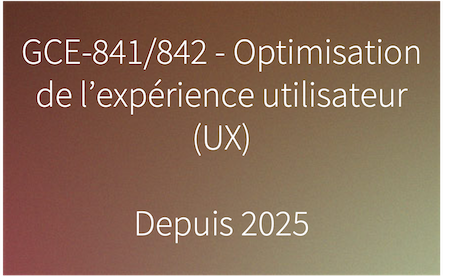
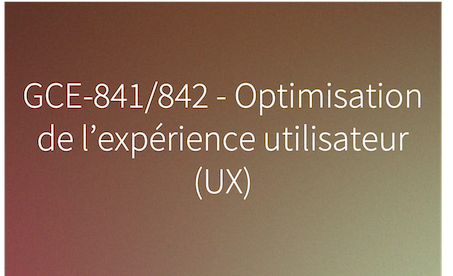
Update portfolio teaching.

diff --git a/index.html b/index.html
@@ -74,7 +74,7 @@
 								<a href="portfolio/2018_patent.html" data-poptrox="iframe,1000x1000"><img src="images/thumbs/portfolio_patent.png" title="2018 - Utilisation à distance des fonctionnalités d'un écran"/></a>
 							</article>
 							<article class="from-right">
-								<a href="portfolio/2018_patent.html" data-poptrox="iframe,1000x1000"><p class="paragraph bold">2018 - Conception et développement de nouvelles interactions pour controller les fonctionnalités d'un écran à distance</p><p style="text-align: justify; color:black"><i>Technologies: </i>Caméras de profondeur et autres.<br>
+								<a href="portfolio/2018_patent.html" data-poptrox="iframe,1000x1000"><p class="portfolioTitle bold">2018 - Conception et développement de nouvelles interactions pour controller les fonctionnalités d'un écran à distance</p><p style="text-align: justify; color:black"><i>Technologies: </i>Caméras de profondeur et autres.<br>
 									<i>Programmation: </i>C++, Python.<br>
 									<i>Méthodes UX: </i>Prototypage, évaluations expertes, tests d'utilisabilité.</p></a>
 							</article>
@@ -83,7 +83,7 @@
 								<a href="portfolio/2019_mr-remote.html" data-poptrox="iframe,1000x1000"><img src="images/thumbs/portfolio_mr-remote_data-flow.png" title="2019 - Technologie en réalité mixte pour l’assistance à distance"/></a>
 							</article>
 							<article class="from-right">
-								<a href="portfolio/2019_mr-remote.html" data-poptrox="iframe,1000x1000"><p class="paragraph bold">2019 - Technologie en réalité mixte pour l’assistance à distance</p><p style="text-align: justify; color:black"><i>Technologie: </i>Microsoft HoloLens 1.<br>
+								<a href="portfolio/2019_mr-remote.html" data-poptrox="iframe,1000x1000"><p class="portfolioTitle bold">2019 - Technologie en réalité mixte pour l’assistance à distance</p><p style="text-align: justify; color:black"><i>Technologie: </i>Microsoft HoloLens 1.<br>
 									<i>Programmation: </i>C# (avec Unity et Visual Studio).<br>
 									<i>Méthodes UX: </i>Tests d'utilisabilité (questionnaires SUS et NASA-TLX).</p></a>
 							</article>
@@ -92,7 +92,7 @@
 								<a href="portfolio/2026_match.html" data-poptrox="iframe,1000x1000"><img src="images/thumbs/portfolio_match.png" title="2022-2025 - MATCH : une assistance cognitive en réalité mixte pour soutenir l’autonomie à domicile des personnes ainées"/></a>
 							</article>
 							<article class="from-right">
-								<a href="portfolio/2026_match.html" data-poptrox="iframe,1000x1000"><p class="paragraph bold">2022-2025 - MATCH : une assistance cognitive en réalité mixte pour soutenir l’autonomie à domicile des personnes ainées</p><p class="paragraph"><i>Technologie: </i>Microsoft HoloLens 2.<br>
+								<a href="portfolio/2026_match.html" data-poptrox="iframe,1000x1000"><p class="portfolioTitle bold">2022-2025 - MATCH : une assistance cognitive en réalité mixte pour soutenir l’autonomie à domicile des personnes ainées</p><p class="portfolioTitle"><i>Technologie: </i>Microsoft HoloLens 2.<br>
 									<i>Programmation: </i>C# (avec Unity et Visual Studio).<br>
 									<i>Méthodes UX: </i>Remue-méninges, évaluations expertes, tests d'utilisabilité à méthode mixte.</p></a>
 							</article>
@@ -101,14 +101,14 @@
 								<a href="portfolio/2024_accorderie.html" data-poptrox="iframe,1000x1000"><img src="images/thumbs/portfolio_accorderie.png" title="2024 - Conception et réalisation de tests utilisateurs pour le nouveau site du Réseau Accorderie"/></a>
 							</article>
 							<article class="from-right">
-								<a href="portfolio/2024_accorderie.html" data-poptrox="iframe,1000x1000"><p class="paragraph bold">2024 - Conception et réalisation de tests utilisateurs pour le nouveau site du Réseau Accorderie</p><p class="paragraph"><i>Méthodes UX: </i>Tests d'utilisabilité quantitatifs (questionnaires ASQ, AttrakDiff et Nasa-TLX).</p></a>
+								<a href="portfolio/2024_accorderie.html" data-poptrox="iframe,1000x1000"><p class="portfolioTitle bold">2024 - Conception et réalisation de tests utilisateurs pour le nouveau site du Réseau Accorderie</p><p class="portfolioTitle"><i>Méthodes UX: </i>Tests d'utilisabilité quantitatifs (questionnaires ASQ, AttrakDiff et Nasa-TLX).</p></a>
 							</article>
 
 							<article class="from-left">
 								<a href="portfolio/2025_personas.html" data-poptrox="iframe,1000x1000"><img src="images/thumbs/portfolio_persona.png" title="2025 - Personas pour soutenir le développement de technologies d'assistance à la cognition pour les personnes ainées"/></a>
 							</article>
 							<article class="from-right">
-								<a href="portfolio/2025_personas.html" data-poptrox="iframe,1000x1000"><p class="paragraph bold">2025 - Personas pour soutenir le développement de technologies d'assistance à la cognition pour les personnes ainées</p><p class="paragraph"><i>Méthodes UX: </i><i>Personas</i> quantitatifs (statistiques descriptives).</p></a>
+								<a href="portfolio/2025_personas.html" data-poptrox="iframe,1000x1000"><p class="portfolioTitle bold">2025 - Personas pour soutenir le développement de technologies d'assistance à la cognition pour les personnes ainées</p><p class="portfolioTitle"><i>Méthodes UX: </i><i>Personas</i> quantitatifs (statistiques descriptives).</p></a>
 							</article>
 						</div>
 					<h3>Enseignement</h3>
@@ -117,7 +117,17 @@
 							<a href="portfolio/teaching_gta621.html" data-poptrox="iframe,1000x1000"><img src="images/thumbs/portfolio_teaching_gta621.png" title="GTA-621 - Expérience utilisateur en technologies d'affaires"/></a> <!--title="2018 - Interactions pour le contrôle d'un écran à distance en salle de chirurgie lors d'opérations minimalement invasives" alt="" -->
 						</article>
 						<article class="from-right">
+							<a href="portfolio/teaching_gta621.html" data-poptrox="iframe,1000x1000"><p class="portfolioTitle"><i>Période: </i>Depuis 2020<br><i>Lieu: </i>École de gestion, Université de Sherbrooke.<br>
+								<i>Étudiants ciblés: </i>Fin de baccalauréat.<br>
+								<i>Méthodes pédagogiques: </i>Classes inversées, approche par projet.<br></p></a>
+						</article>
+						<article class="from-left">
 							<a href="portfolio/teaching_gce841-842.html" data-poptrox="iframe,1000x1000"><img src="images/thumbs/portfolio_teaching_gce841.png" title="GCE-841/842 - Optimisation de l'expérience utilisateur (UX)"/></a>
+						</article>
+						<article class="from-right">
+							<a href="portfolio/teaching_gce841-842.html" data-poptrox="iframe,1000x1000"><p class="portfolioTitle"><i>Période: </i>Depuis 2025<br><i>Lieu: </i>École de gestion, Université de Sherbrooke.<br>
+								<i>Étudiants ciblés: </i>Fin de maitrise.<br>
+								<i>Méthodes pédagogiques: </i>Approche par projet.<br></p></a>
 						</article>
 					</div>
 				</div>

diff --git a/assets/css/main.css b/assets/css/main.css
@@ -2347,10 +2347,10 @@ input, select, textarea {
 
 /* Paragraph */
 
-.paragraph{
+.portfolioTitle{
 	text-align: justify;
 	color:black;
 }
-.paragraph.bold{
+.portfolioTitle.bold{
 	font-weight: bold;
 }
